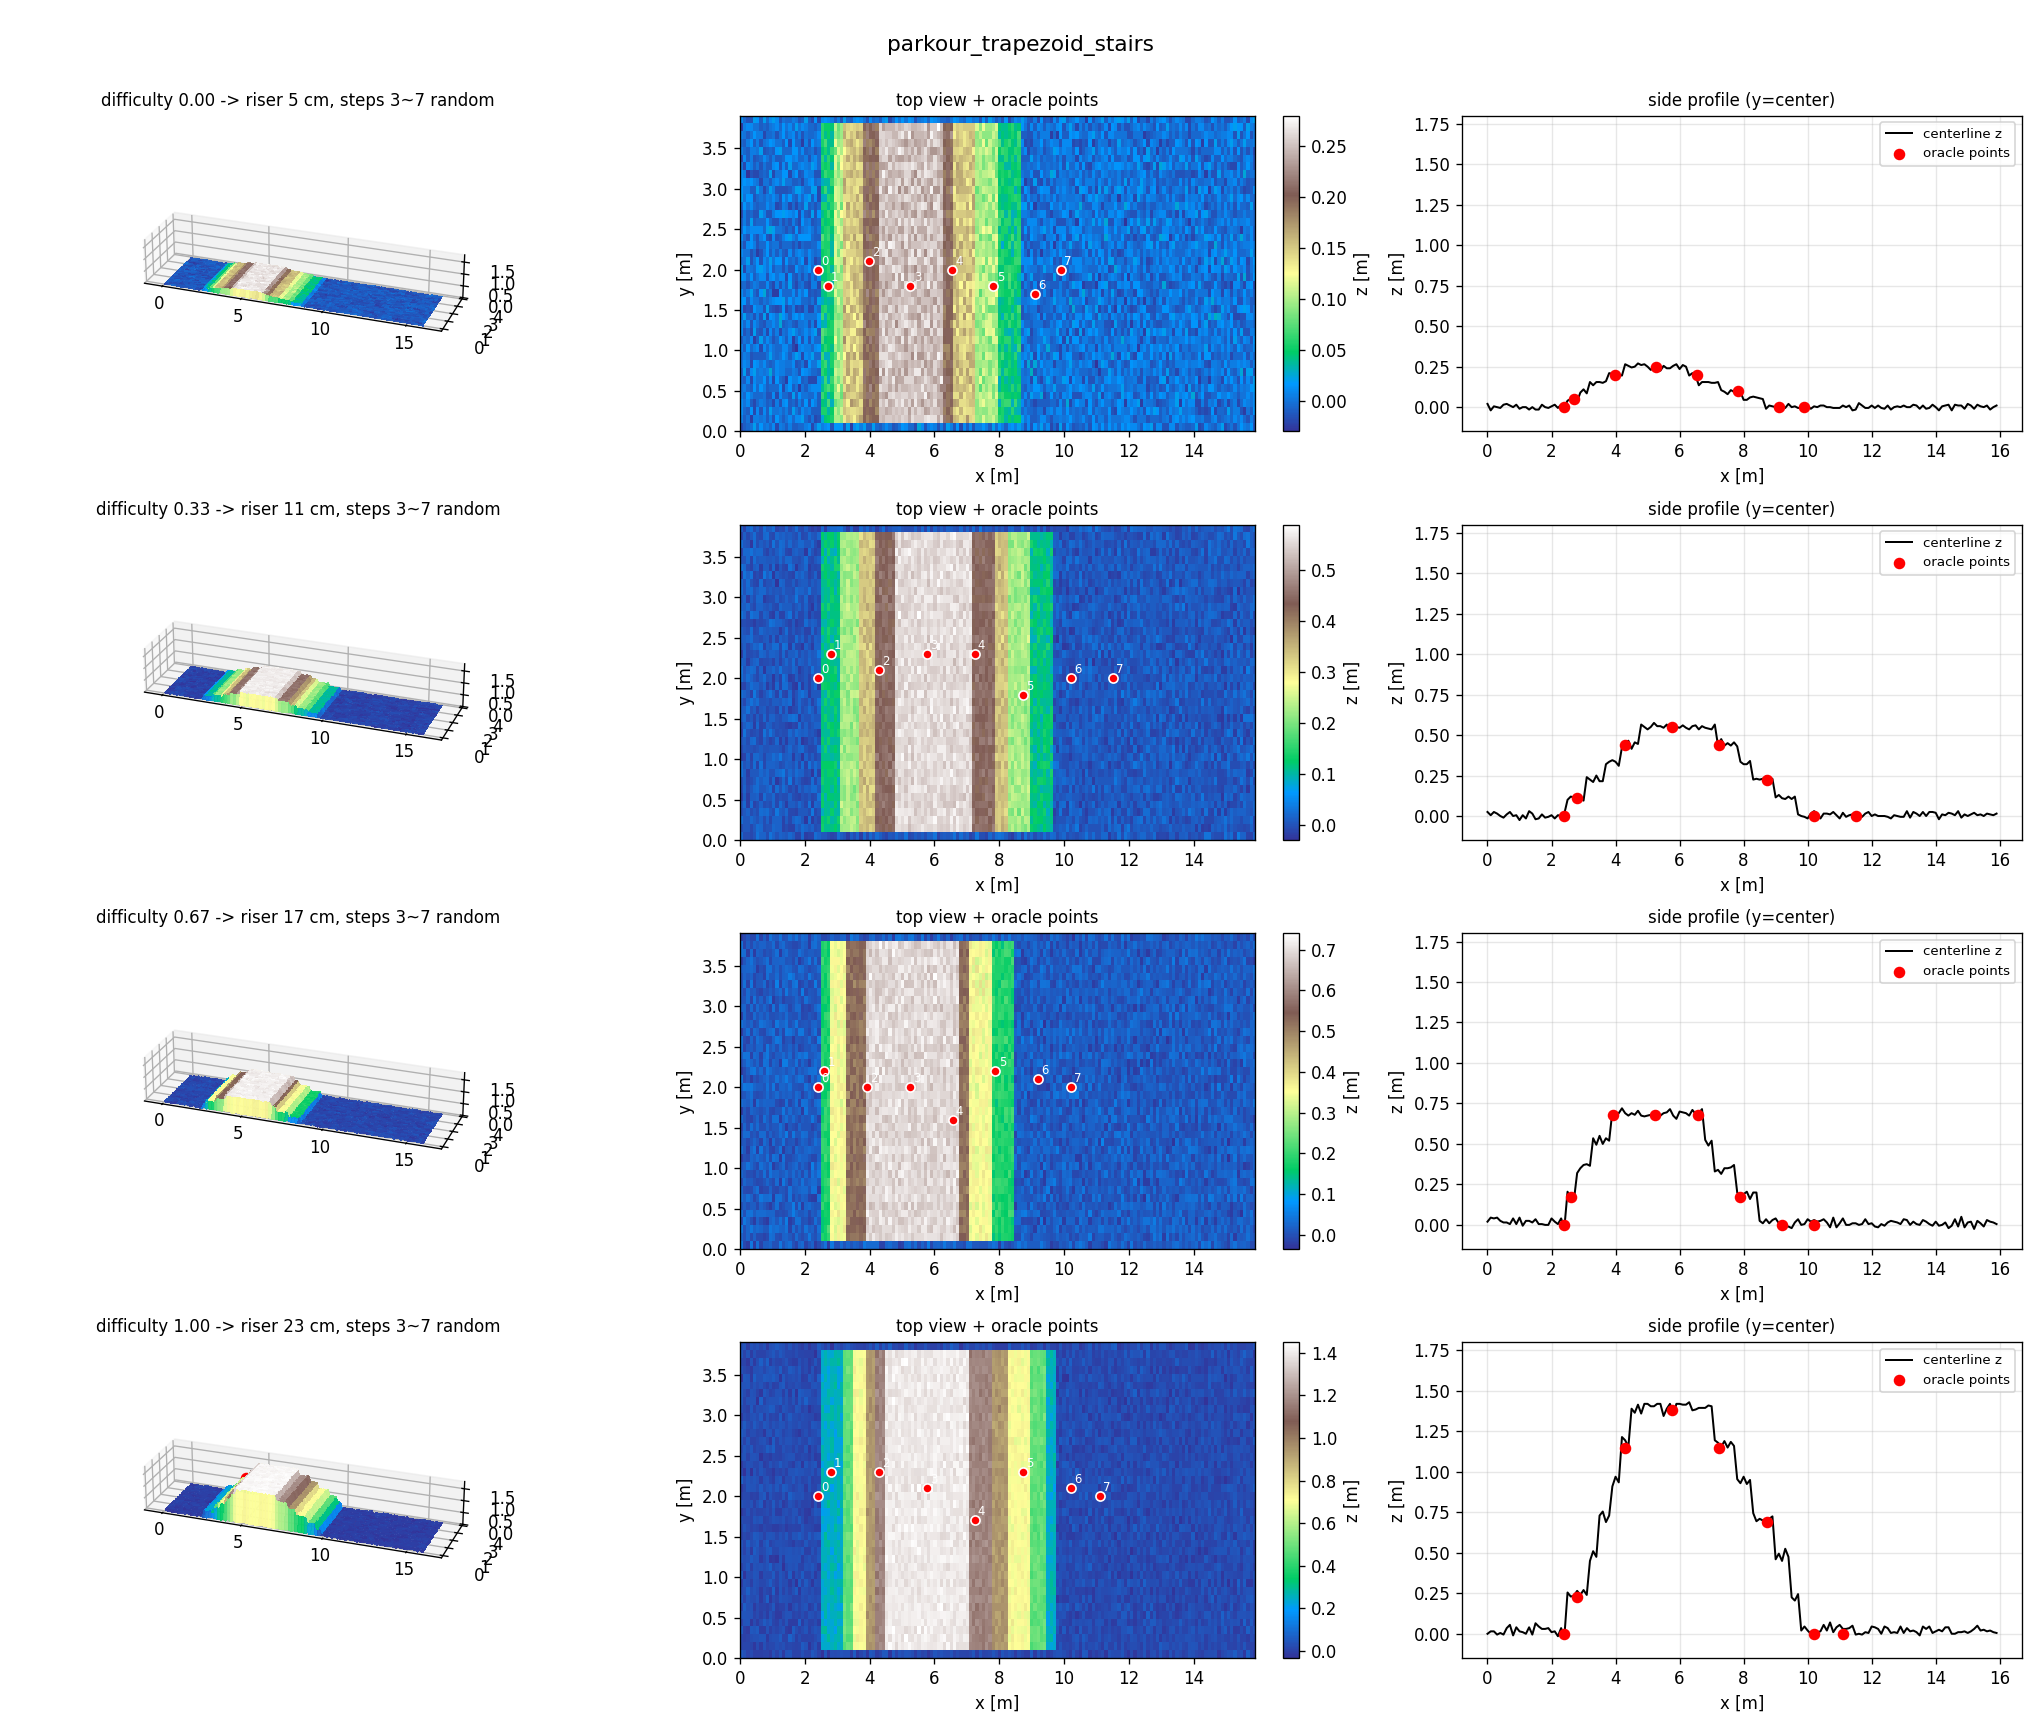
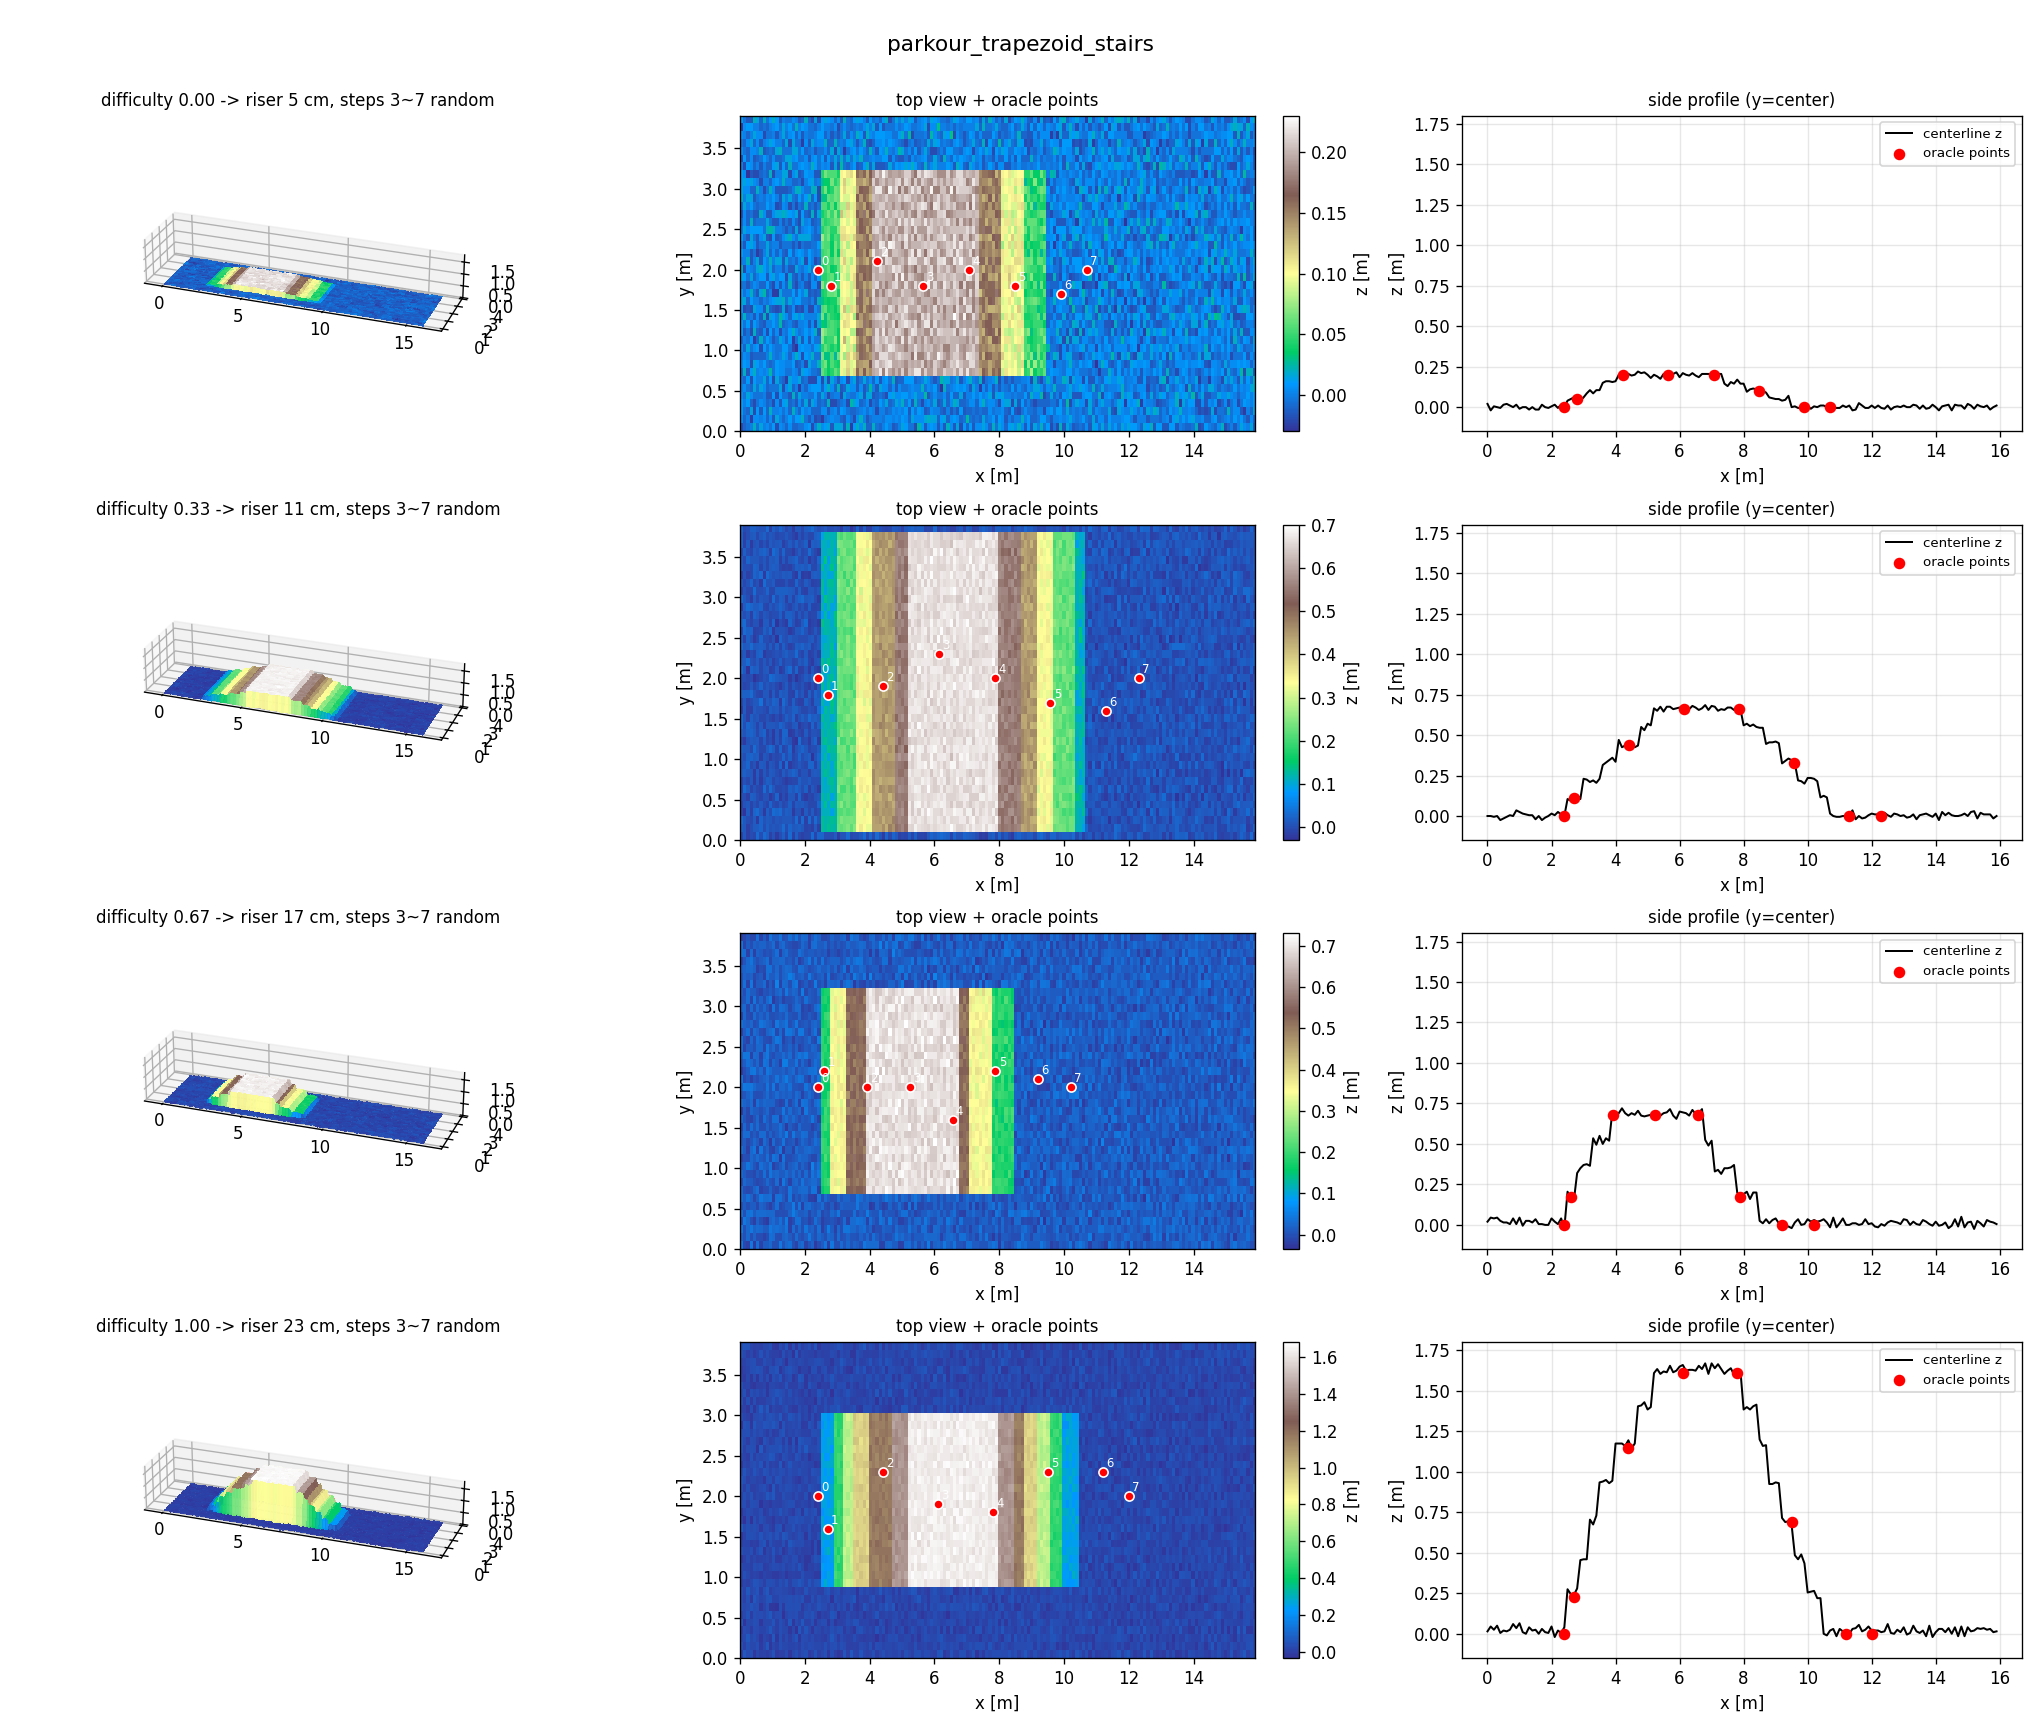
trapezoid 지형 폭을 2.0~4.0m 랜덤으로 변경
course_width(5.0 고정) 를 course_width_range=(2.0, 4.0) 으로 바꾸고
타일마다 하나를 뽑는다 (ramp/stairs 공통 _course_span). 코스 밖은 평지로
남는 hurdle half_valid_width 식 구조이고, goal 은 항상 구조물 위(y 구간 안)에
찍히므로 우회로 과제가 무력화되지는 않는다. 10개 난이도 재검증
(각도/단차 유지 + 폭 2.0~3.4m 출현) 및 시각화 갱신.

diff --git a/parkour_isaaclab/terrains/extreme_parkour/extreme_parkour_terrains_cfg.py b/parkour_isaaclab/terrains/extreme_parkour/extreme_parkour_terrains_cfg.py
@@ -163,10 +163,10 @@ class ExtremeParkourTrapezoidRampTerrainCfg(ExtremeParkourRoughTerrainCfg):
     slope_angle: str = '10 + 27*difficulty'
     """경사 각도 (도). 10행 커리큘럼(difficulty = row/9)에서 10, 13, ..., 37도가 된다."""
 
-    course_width: float = 5.0
-    """구조물 폭 (m). 타일 폭(size[1])보다 크면 타일 전체 폭을 쓴다.
-    현재 타일이 4m 폭이라 사실상 전폭이다. 5m 를 그대로 쓰려면 generator 의
-    size 를 (x, 5.0) 이상으로 키워야 한다 (모든 지형에 영향)."""
+    course_width_range: tuple[float, float] = (2.0, 4.0)
+    """구조물 폭의 랜덤 범위 (m). 타일마다 하나를 뽑고, 타일 폭(size[1])보다
+    넓게 뽑히면 타일 전체 폭으로 잘린다. 코스 밖은 평지로 남으며 goal 은
+    항상 구조물 위에 찍힌다 (hurdle 의 half_valid_width 와 같은 구조)."""
 
     plateau_len_range: tuple[float, float] = (1.5, 3.0)
     """꼭대기 평지 길이의 랜덤 범위 (m)."""
@@ -203,8 +203,8 @@ class ExtremeParkourTrapezoidStairsTerrainCfg(ExtremeParkourRoughTerrainCfg):
     """디딤판(tread) 깊이의 랜덤 범위 (m). step 지형의 x_range(0.3, 1.5) 방식을
     따르되, 왕복 10칸이 16m 타일을 넘치지 않도록 상한을 0.8 로 줄였다."""
 
-    course_width: float = 5.0
-    """구조물 폭 (m). ramp 쪽과 같은 의미."""
+    course_width_range: tuple[float, float] = (2.0, 4.0)
+    """구조물 폭의 랜덤 범위 (m). ramp 쪽과 같은 의미."""
 
     plateau_len_range: tuple[float, float] = (1.5, 3.0)
     """꼭대기 평지 길이의 랜덤 범위 (m)."""

diff --git a/parkour_isaaclab/terrains/extreme_parkour/extreme_parkour_terrians.py b/parkour_isaaclab/terrains/extreme_parkour/extreme_parkour_terrians.py
@@ -545,13 +545,15 @@ def _lay_goals_over_trapezoid(
 def _course_span(cfg, width_pixels: int, length_pixels: int):
     """사다리꼴 지형 공통: 시작 플랫폼과 코스 폭(y 구간)을 계산한다.
 
-    ``course_width`` (기본 5.0m) 가 타일 폭보다 넓으면 타일 전체 폭을 쓴다.
-    (현재 타일은 4m 폭이라 사실상 전폭 코스가 된다. 폭 5m 를 그대로 쓰려면
-    generator 의 size[1] 을 5.0 이상으로 키워야 한다.)
+    구조물 폭은 타일마다 ``course_width_range`` (기본 2.0~4.0m) 에서 뽑는다.
+    타일 폭(size[1])보다 넓게 뽑히면 타일 전체 폭으로 잘린다.
+    코스 밖(y 구간 바깥)은 평지로 남는다 — hurdle 의 half_valid_width 와 같은
+    구조로, 우회는 goal 이 구조물 위(y 구간 안)에 찍히는 것으로 막는다.
     """
     platform_len = round(cfg.platform_len / cfg.horizontal_scale)
     mid_y = length_pixels // 2
-    half_w = round(min(cfg.course_width, cfg.size[1]) / cfg.horizontal_scale) // 2
+    course_width = np.random.uniform(*cfg.course_width_range)
+    half_w = round(min(course_width, cfg.size[1]) / cfg.horizontal_scale) // 2
     y_lo = max(0, mid_y - half_w)
     y_hi = min(length_pixels, mid_y + half_w)
     return platform_len, mid_y, y_lo, y_hi

diff --git a/parkour_isaaclab/terrains/extreme_parkour/config/parkour.py b/parkour_isaaclab/terrains/extreme_parkour/config/parkour.py
@@ -131,7 +131,7 @@ EXTREME_PARKOUR_TERRAINS_CFG = ParkourTerrainGeneratorCfg(
                         proportion=0.0,
                         apply_roughness=True,
                         slope_angle='10 + 27*difficulty',
-                        course_width=5.0,
+                        course_width_range=(2.0, 4.0),
                         plateau_len_range=(1.5, 3.0),
                         plateau_height_range=(0.4, 0.8),
                         ),
@@ -144,7 +144,7 @@ EXTREME_PARKOUR_TERRAINS_CFG = ParkourTerrainGeneratorCfg(
                         step_height='0.05 + 0.18*difficulty',
                         num_steps_range=(3, 7),
                         x_range=(0.3, 0.8),
-                        course_width=5.0,
+                        course_width_range=(2.0, 4.0),
                         plateau_len_range=(1.5, 3.0),
                         slope_threshold=0.3,
                         ),
